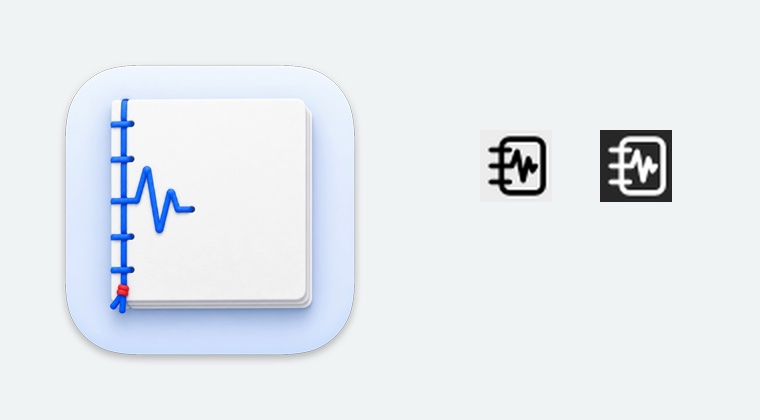
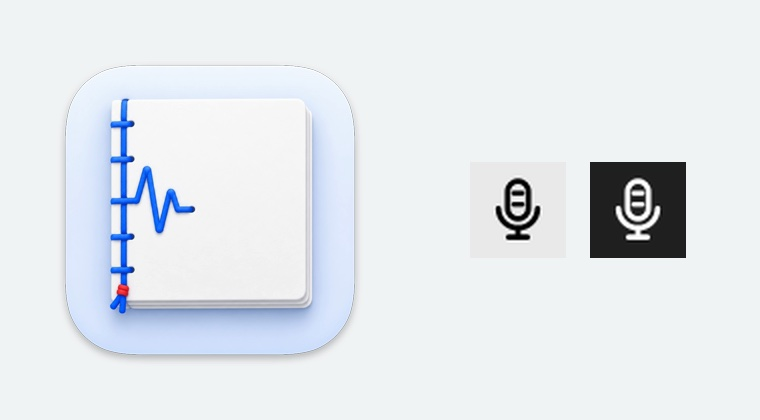
メニューバーのアイコンをマイクにする
- 冊子の線画は声と分かりにくいとの本人の声を受け、3案(綴じ糸の背と声の棒・マイク・吹き出しと声の棒)から
  本人がマイクを選んだ(質問票 sheet_20261022_006)。単色の線のテンプレートの絵で描く
- 設計書のアイコンの節と図を直し、案の絵を docs/design-sources/mocks/menubar-icon に残した

Changed region(s): [[0.7566, 0.3095, 0.9079, 0.619], [0.6355, 0.3095, 0.7263, 0.5881]]

diff --git a/Sources/TsuzuriApp/MenuContent.swift b/Sources/TsuzuriApp/MenuContent.swift
@@ -19,8 +19,7 @@ struct MenuBarIcon: View {
         }
     }
 
-    /// 待機中のアイコン。アプリのアイコン(和綴じの冊子)と同じ題材を、メニューバー向けの単色の線で描く。
-    /// 上と下の綴じ糸が背を横切り、真ん中の綴じ糸はそのまま声の波形になって紙へ続く。
+    /// 待機中のアイコン。一目で声の入力と分かるよう、マイクを単色の線で描く(質問票 sheet_20261022_006 で本人が選んだ)。
     /// テンプレートの絵にして、メニューバーの明るさに合わせた色で出させる
     static let glyph: NSImage = {
         let image = NSImage(size: NSSize(width: 18, height: 18), flipped: true) { _ in
@@ -31,24 +30,23 @@ struct MenuBarIcon: View {
                 path.lineJoinStyle = .round
                 path.stroke()
             }
-            // 冊子の紙
-            stroke(NSBezierPath(roundedRect: NSRect(x: 5.4, y: 2.3, width: 10.4, height: 13.4), xRadius: 2, yRadius: 2), 1.35)
-            // 上と下の綴じ糸
-            for y: CGFloat in [5.0, 13.0] {
-                let stitch = NSBezierPath()
-                stitch.move(to: NSPoint(x: 2.8, y: y))
-                stitch.line(to: NSPoint(x: 7.4, y: y))
-                stroke(stitch, 1.3)
+            func line(_ from: NSPoint, _ to: NSPoint, _ width: CGFloat) {
+                let path = NSBezierPath()
+                path.move(to: from)
+                path.line(to: to)
+                stroke(path, width)
             }
-            // 真ん中の綴じ糸から続く声の波形
-            let points = [
-                NSPoint(x: 2.8, y: 9), NSPoint(x: 8.0, y: 9), NSPoint(x: 9.3, y: 5.4), NSPoint(x: 10.8, y: 12.6),
-                NSPoint(x: 12.1, y: 7.2), NSPoint(x: 13.1, y: 10.2), NSPoint(x: 13.9, y: 9),
-            ]
-            let thread = NSBezierPath()
-            thread.move(to: points[0])
-            for point in points.dropFirst() { thread.line(to: point) }
-            stroke(thread, 1.25)
+            // マイクの頭と、中の2本の網目
+            stroke(NSBezierPath(roundedRect: NSRect(x: 6.4, y: 1.8, width: 5.2, height: 9.4), xRadius: 2.6, yRadius: 2.6), 1.35)
+            for y: CGFloat in [4.8, 7.6] {
+                line(NSPoint(x: 7.9, y: y), NSPoint(x: 10.1, y: y), 1.2)
+            }
+            // U字の支えと台
+            let holder = NSBezierPath()
+            holder.appendArc(withCenter: NSPoint(x: 9, y: 8.6), radius: 4.9, startAngle: 180, endAngle: 0, clockwise: true)
+            stroke(holder, 1.35)
+            line(NSPoint(x: 9, y: 13.5), NSPoint(x: 9, y: 15.6), 1.35)
+            line(NSPoint(x: 6.6, y: 15.8), NSPoint(x: 11.4, y: 15.8), 1.35)
             return true
         }
         image.isTemplate = true

diff --git a/docs/design-sources/build_doc.py b/docs/design-sources/build_doc.py
@@ -367,12 +367,12 @@ section(
         bullets(
             [
                 "macOS 26 は、角の丸い正方形に収まらない形のアイコンを灰色の台座に入れる。そこで外の形は標準(1024 の中の 824 の角の丸い正方形)にし、ユニークさは中の絵で出す。生成した絵は `scripts/make-app-icon.swift` で本体を切り出して標準の形に切り抜き、薄い影を付けて `Resources/AppIcon.icns` にする。`build-app-bundle.sh` がアプリに入れる",
-                "メニューバーのアイコンは、同じ題材を単色の線で描いた絵にする(上と下の綴じ糸が背を横切り、真ん中の綴じ糸がそのまま声の波形になって紙へ続く)。テンプレートの絵なので、メニューバーの明るさに合わせて黒か白で出る。録音中は今までどおり赤い丸だけ、確定を待つ間は「…」の丸、権限などが足りないときは注意の三角を出す",
+                "メニューバーのアイコンは、単色の線で描いたマイクにする。はじめは冊子の線画にしたが、本人が見て「もう少し声と分かる形に」とのことで、3案(綴じ糸の背と声の棒・マイク・吹き出しと声の棒)から本人がマイクを選んだ(質問票 sheet_20261022_006)。テンプレートの絵なので、メニューバーの明るさに合わせて黒か白で出る。録音中は今までどおり赤い丸だけ、確定を待つ間は「…」の丸、権限などが足りないときは注意の三角を出す",
             ]
         ),
         image(
             SP / "mocks/app-icon/chosen-a-with-menubar.jpg",
-            "選んだアプリのアイコン。淡い青の角の丸い正方形の中に、青い糸で綴じた白い冊子があり、綴じ糸の一部が声の波形になっている。右に、メニューバーのアイコン(冊子の線画と、真ん中の綴じ糸から続く波形)を明るい地と暗い地で並べた",
+            "選んだアプリのアイコン。淡い青の角の丸い正方形の中に、青い糸で綴じた白い冊子があり、綴じ糸の一部が声の波形になっている。右に、メニューバーのマイクのアイコンを明るい地と暗い地で並べた",
             "選んだアプリのアイコン(左)と、メニューバーのアイコン(右。明るい地と暗い地)",
         ),
     ],
